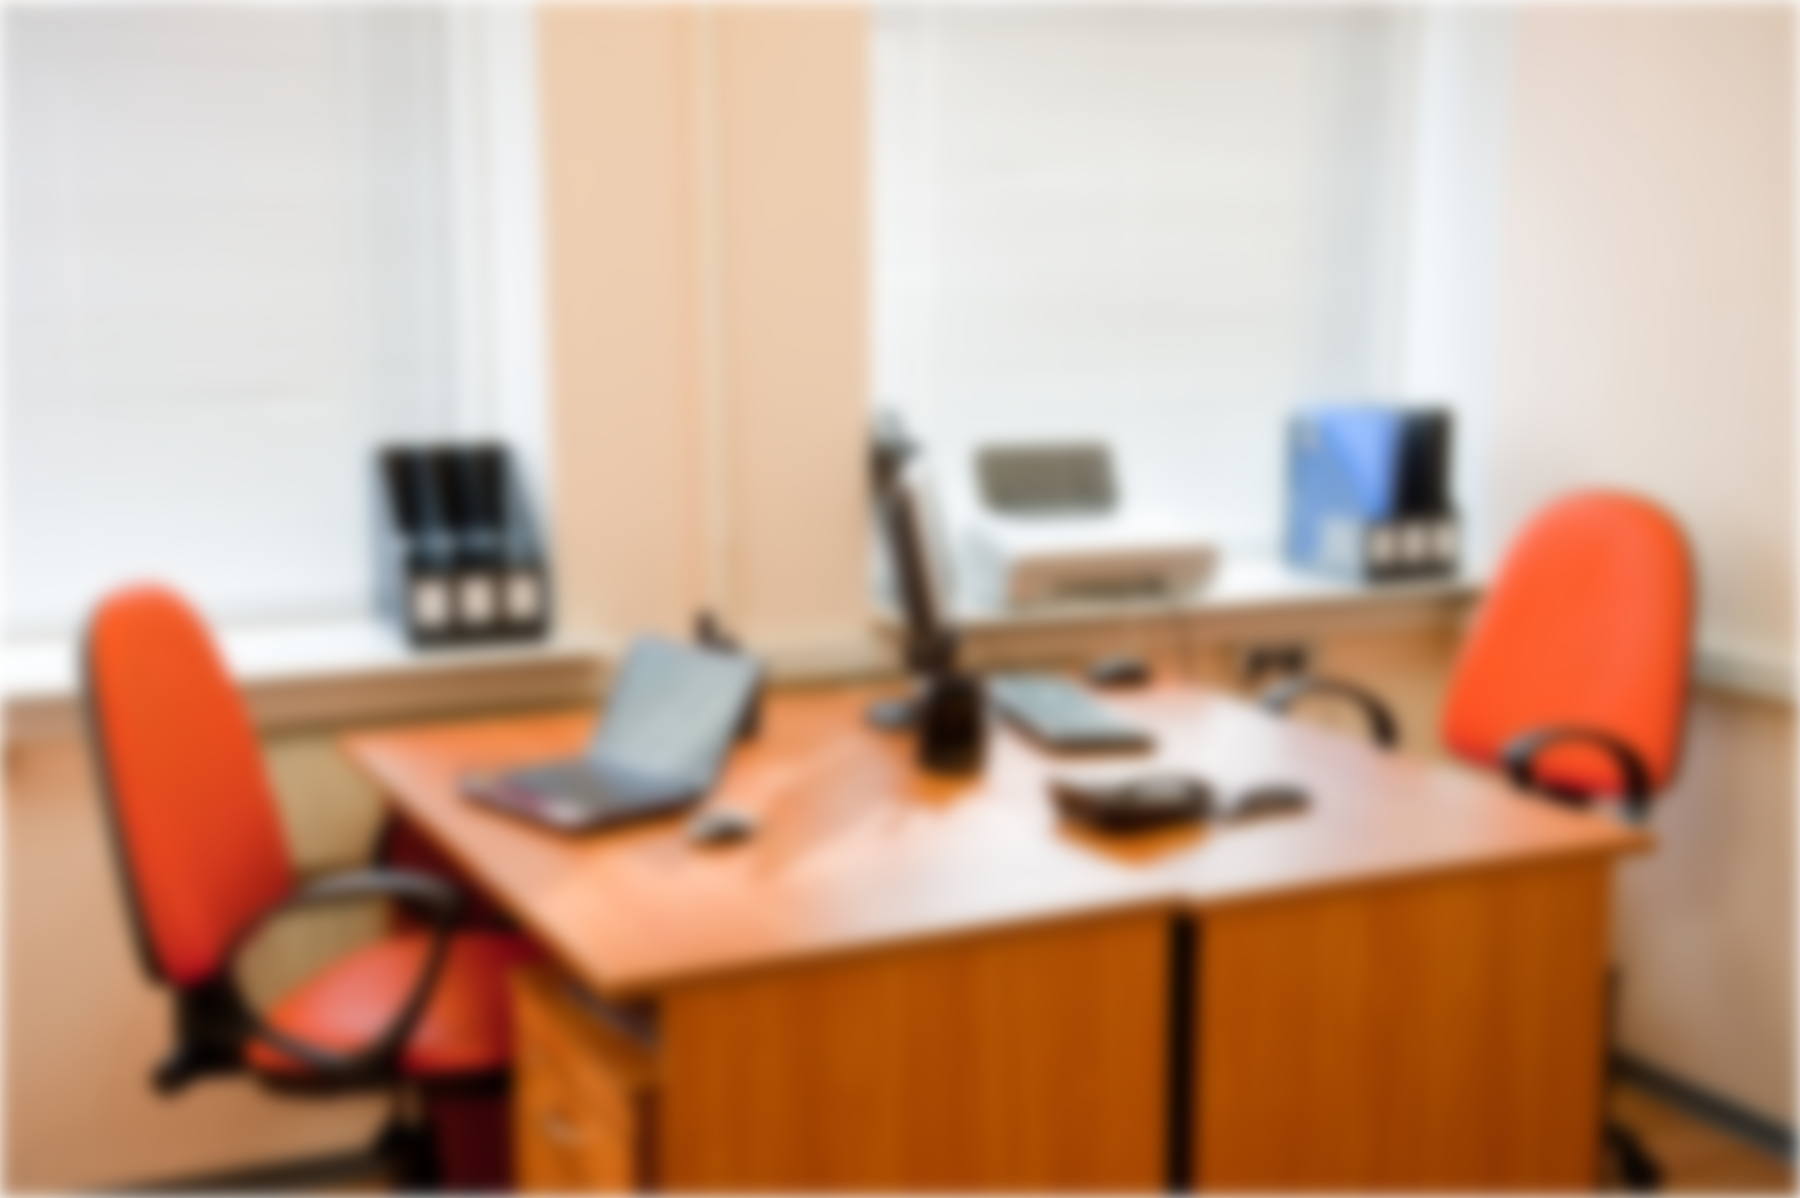
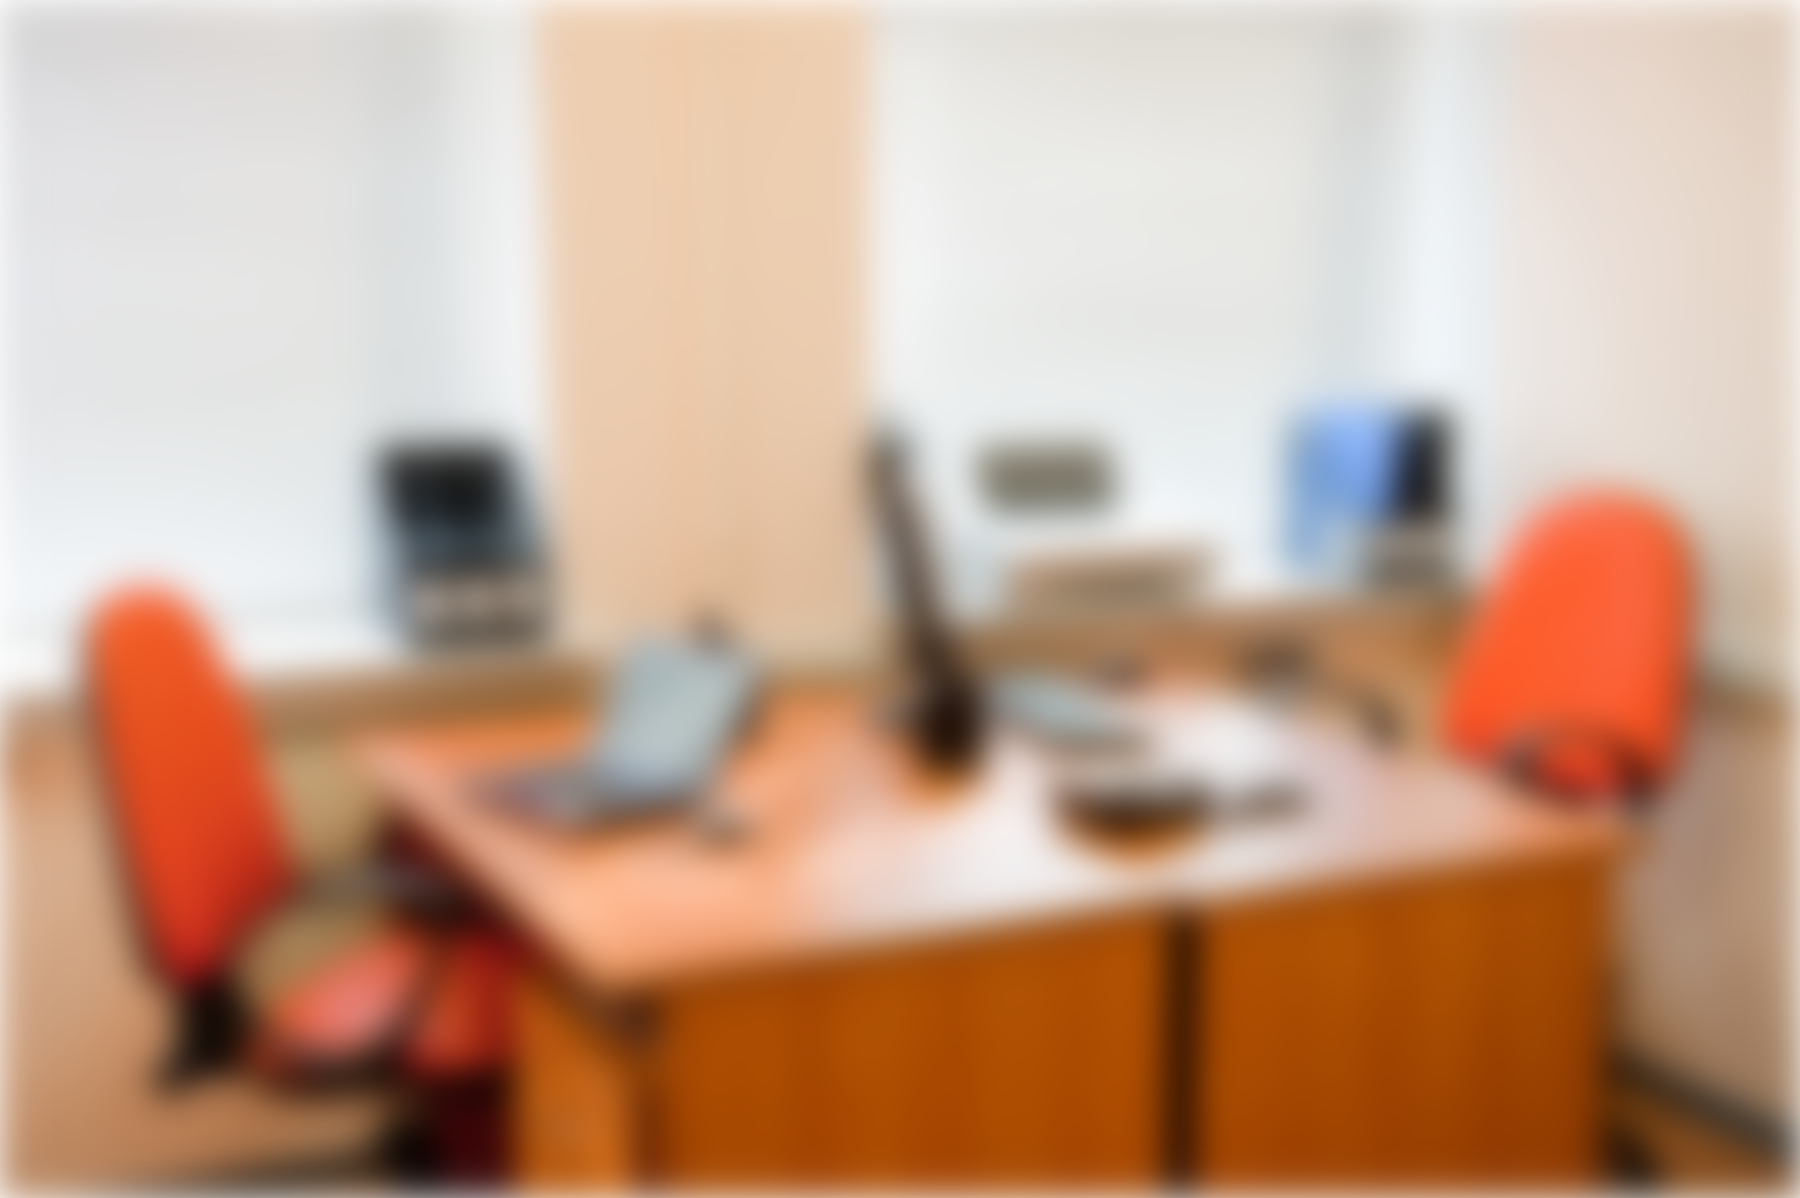
Blurred the background photo more to make slogan more readable. Styled for a fixed layout (non-reponsive).

diff --git a/common/static/css/landing.css b/common/static/css/landing.css
@@ -21,7 +21,7 @@
     background-color: transparent;
     margin-bottom: 15px;
     padding-bottom: 5px;
-    padding-top: 30px;
+    padding-top: 50px;
 }
 
 .landing-headline .hero-unit > * {
@@ -33,6 +33,10 @@
     font-size: 60px;
 }
 
+.landing-headline .hero-unit p.landing-slogan {
+    font-weight: 400;
+}
+
 .landing-gray-stripe {
     background-color: #F5F5F5;
     background-repeat: repeat-x;
@@ -40,8 +44,15 @@
 
 .landing-slogan {
     margin-top: 20px;
-    margin-left: 240px;
-    margin-right: 240px;
+    margin-left: 125px;
+    margin-right: 125px;
+}
+
+@media (max-width: 979px) {
+    .landing-slogan {
+        margin-left: 0;
+        margin-right: 0;
+    }
 }
 
 .landing-list {

diff --git a/common/templates/common/landing.html b/common/templates/common/landing.html
@@ -11,8 +11,6 @@
 {% endblock %}
 
 {% block extrahead %}
-    <meta name="viewport" content="width=device-width, initial-scale=1.0">
-    <link href="{% static "css/3ps/bootstrap/css/bootstrap-responsive.css" %}" rel="stylesheet">
     <link href="{% static "css/landing.css" %}" rel="stylesheet">
 {% endblock %}
 
